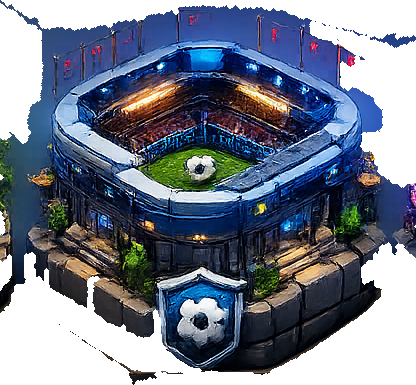
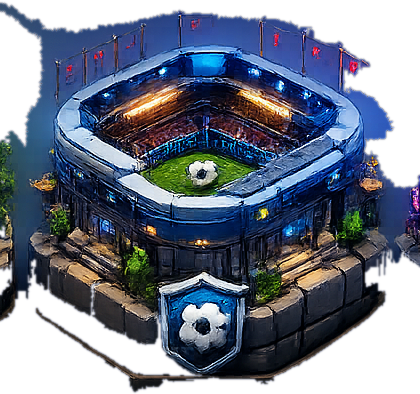
ui(arena): feathered cutout edges + silhouette drop shadow (clean CR 2.5D)
- Re-cut arenas with a navy matte + alpha feather → smooth anti-aliased edges
  (no jagged/sticker look, no back-scene)
- ArenaCrest: real iOS drop shadow cast from the image silhouette + softer
  ground ellipse so the arena sits grounded like Clash Royale

diff --git a/app/src/screens.tsx b/app/src/screens.tsx
@@ -1084,13 +1084,14 @@ function ArenaCrest({ arena, trophies, onPress }: { arena: { name: string; icon:
   const ty = breathe.interpolate({ inputRange: [0, 1], outputRange: [0, -5] });
   return (
     <Pressable onPress={onPress} style={{ marginVertical: 6, alignItems: 'center' }}>
-      {/* Floating cut-out arena (square, 2.5D top-view) with a tight contact shadow */}
+      {/* Floating cut-out arena (2.5D top-view): soft elliptical ground shadow +
+          a real silhouette drop shadow on the image itself (iOS) — grounds it like CR. */}
       <View style={{ alignItems: 'center', justifyContent: 'flex-end' }}>
-        <View pointerEvents="none" style={{ position: 'absolute', bottom: 18, width: 124, height: 18, borderRadius: 9, backgroundColor: '#000', opacity: 0.45, shadowColor: '#000', shadowOpacity: 0.5, shadowRadius: 8, shadowOffset: { width: 0, height: 2 }, transform: [{ scaleX: 1.35 }] }} />
+        <View pointerEvents="none" style={{ position: 'absolute', bottom: 20, width: 130, height: 20, borderRadius: 10, backgroundColor: '#000', opacity: 0.4, shadowColor: '#000', shadowOpacity: 0.55, shadowRadius: 12, shadowOffset: { width: 0, height: 2 }, transform: [{ scaleX: 1.4 }] }} />
         <Animated.Image
           source={tier.img}
           resizeMode="contain"
-          style={{ width: 188, height: 188, transform: [{ scale }, { translateY: ty }] }}
+          style={{ width: 188, height: 188, transform: [{ scale }, { translateY: ty }], shadowColor: '#000', shadowOpacity: 0.5, shadowRadius: 10, shadowOffset: { width: 0, height: 9 } }}
         />
       </View>
       {/* Nameplate below */}
